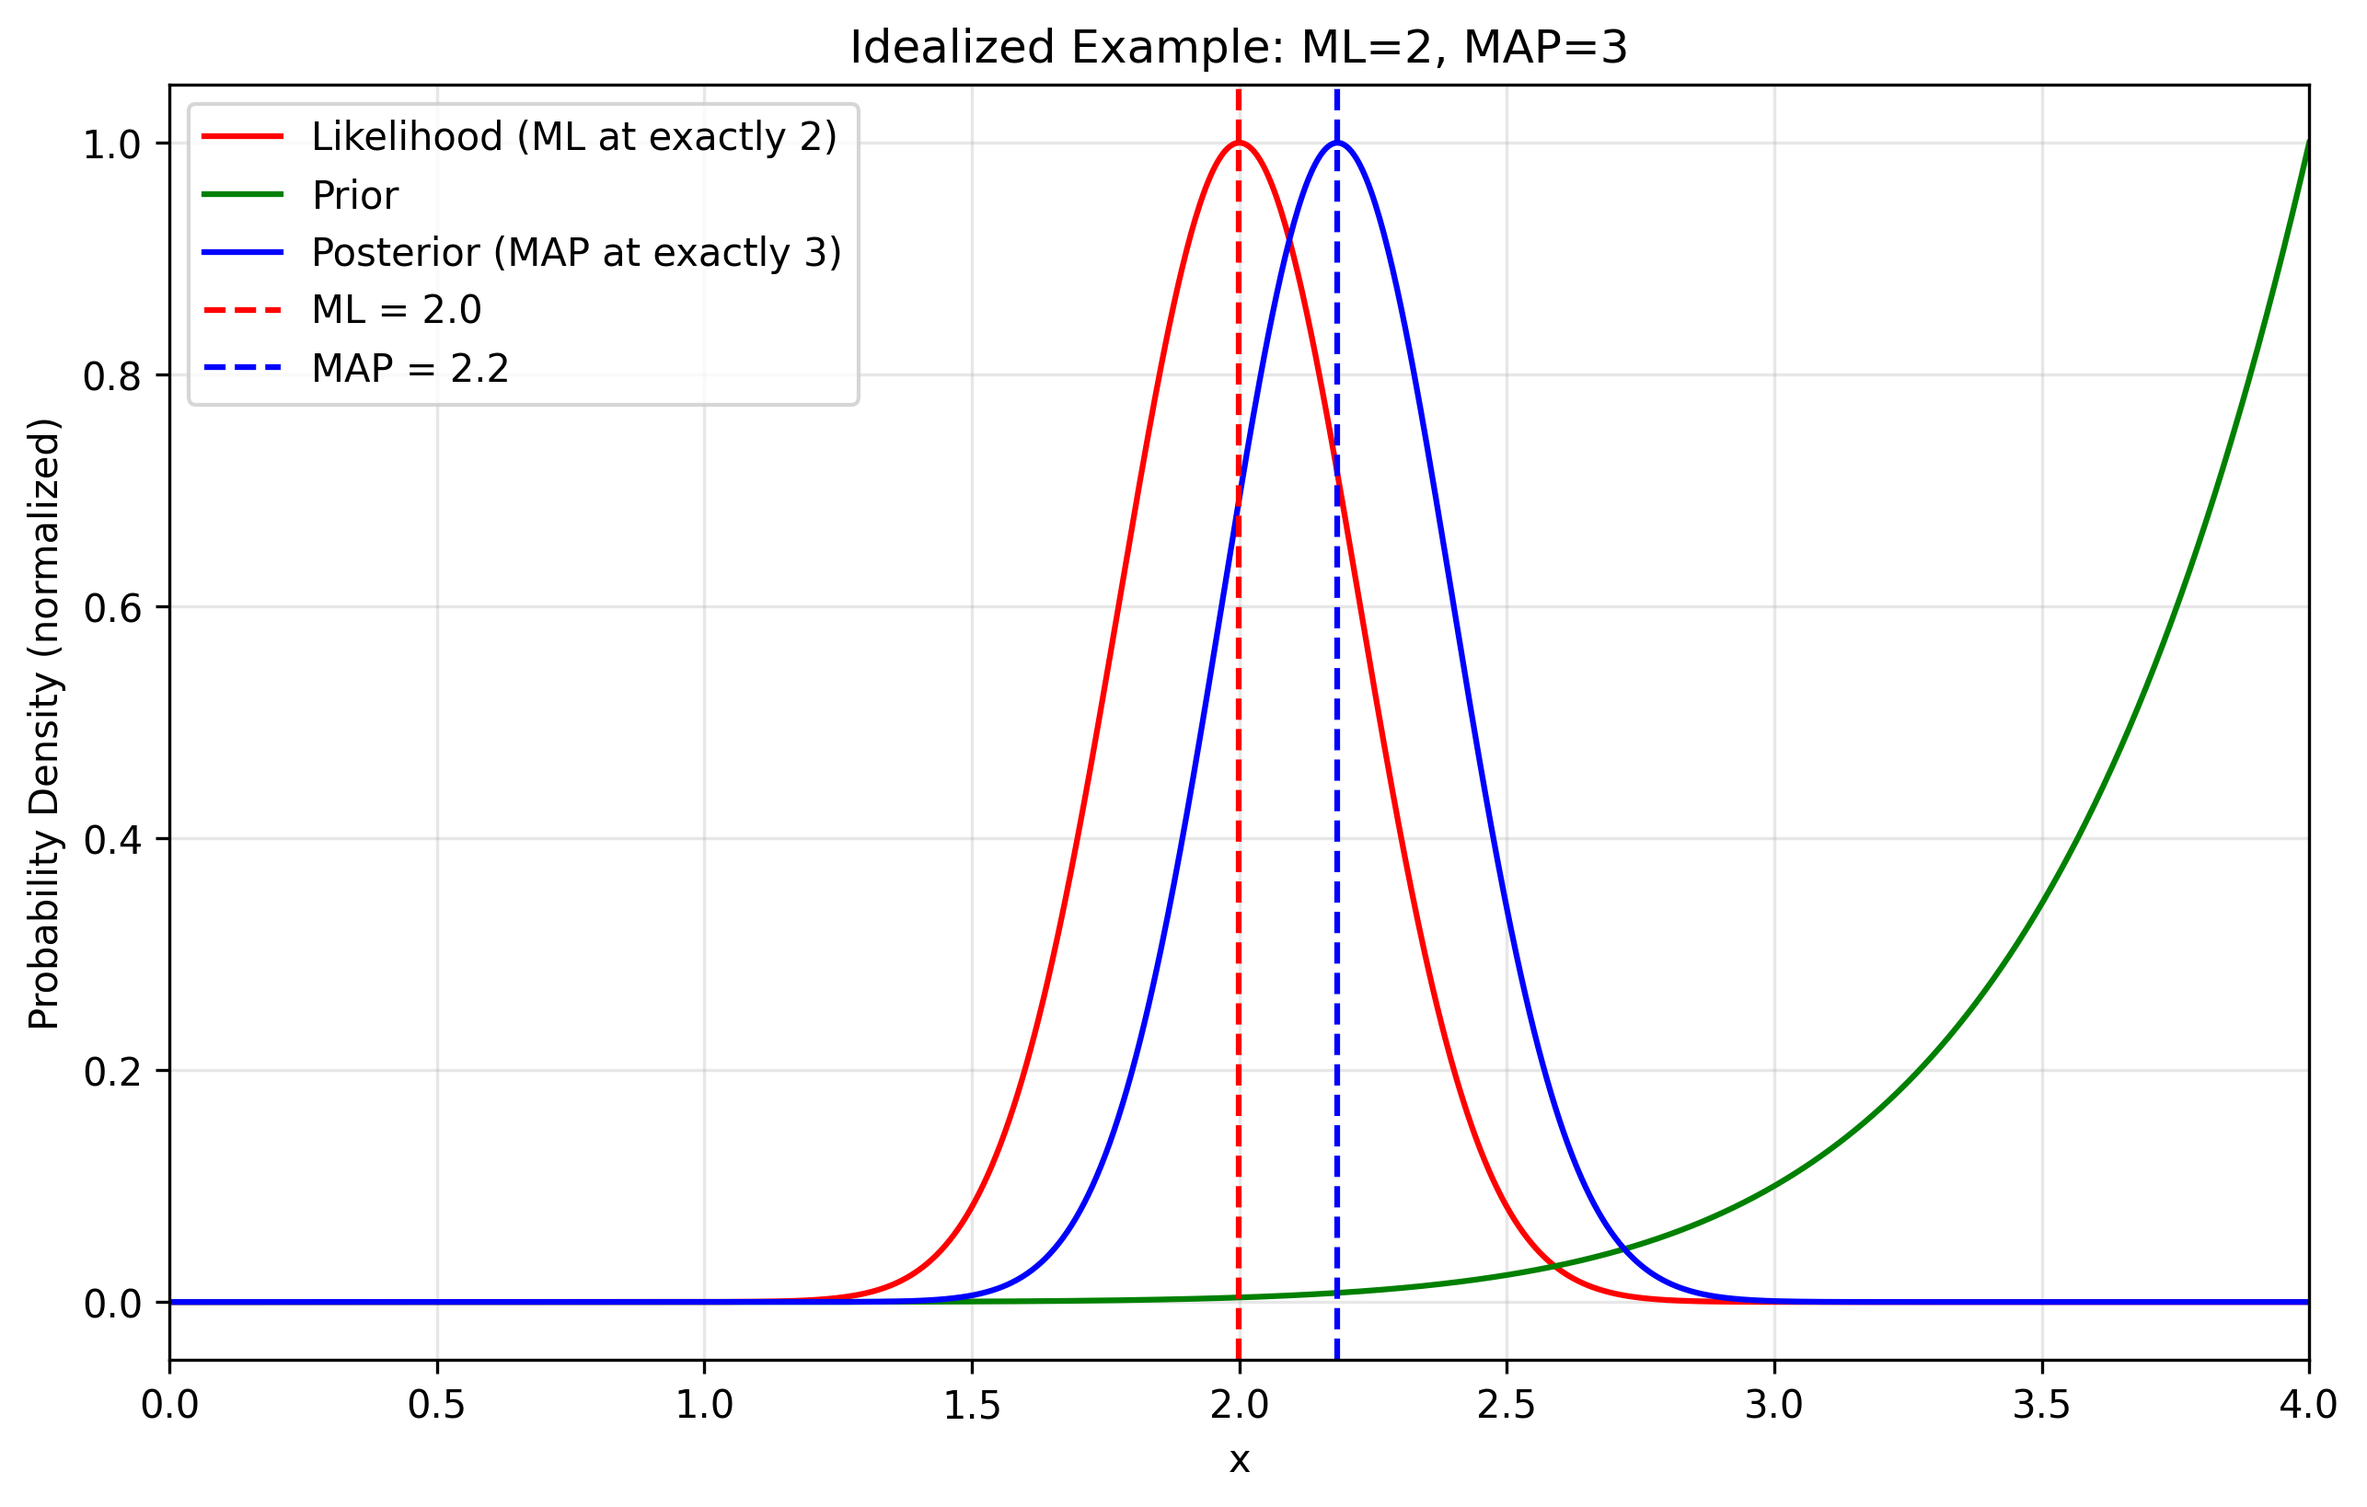
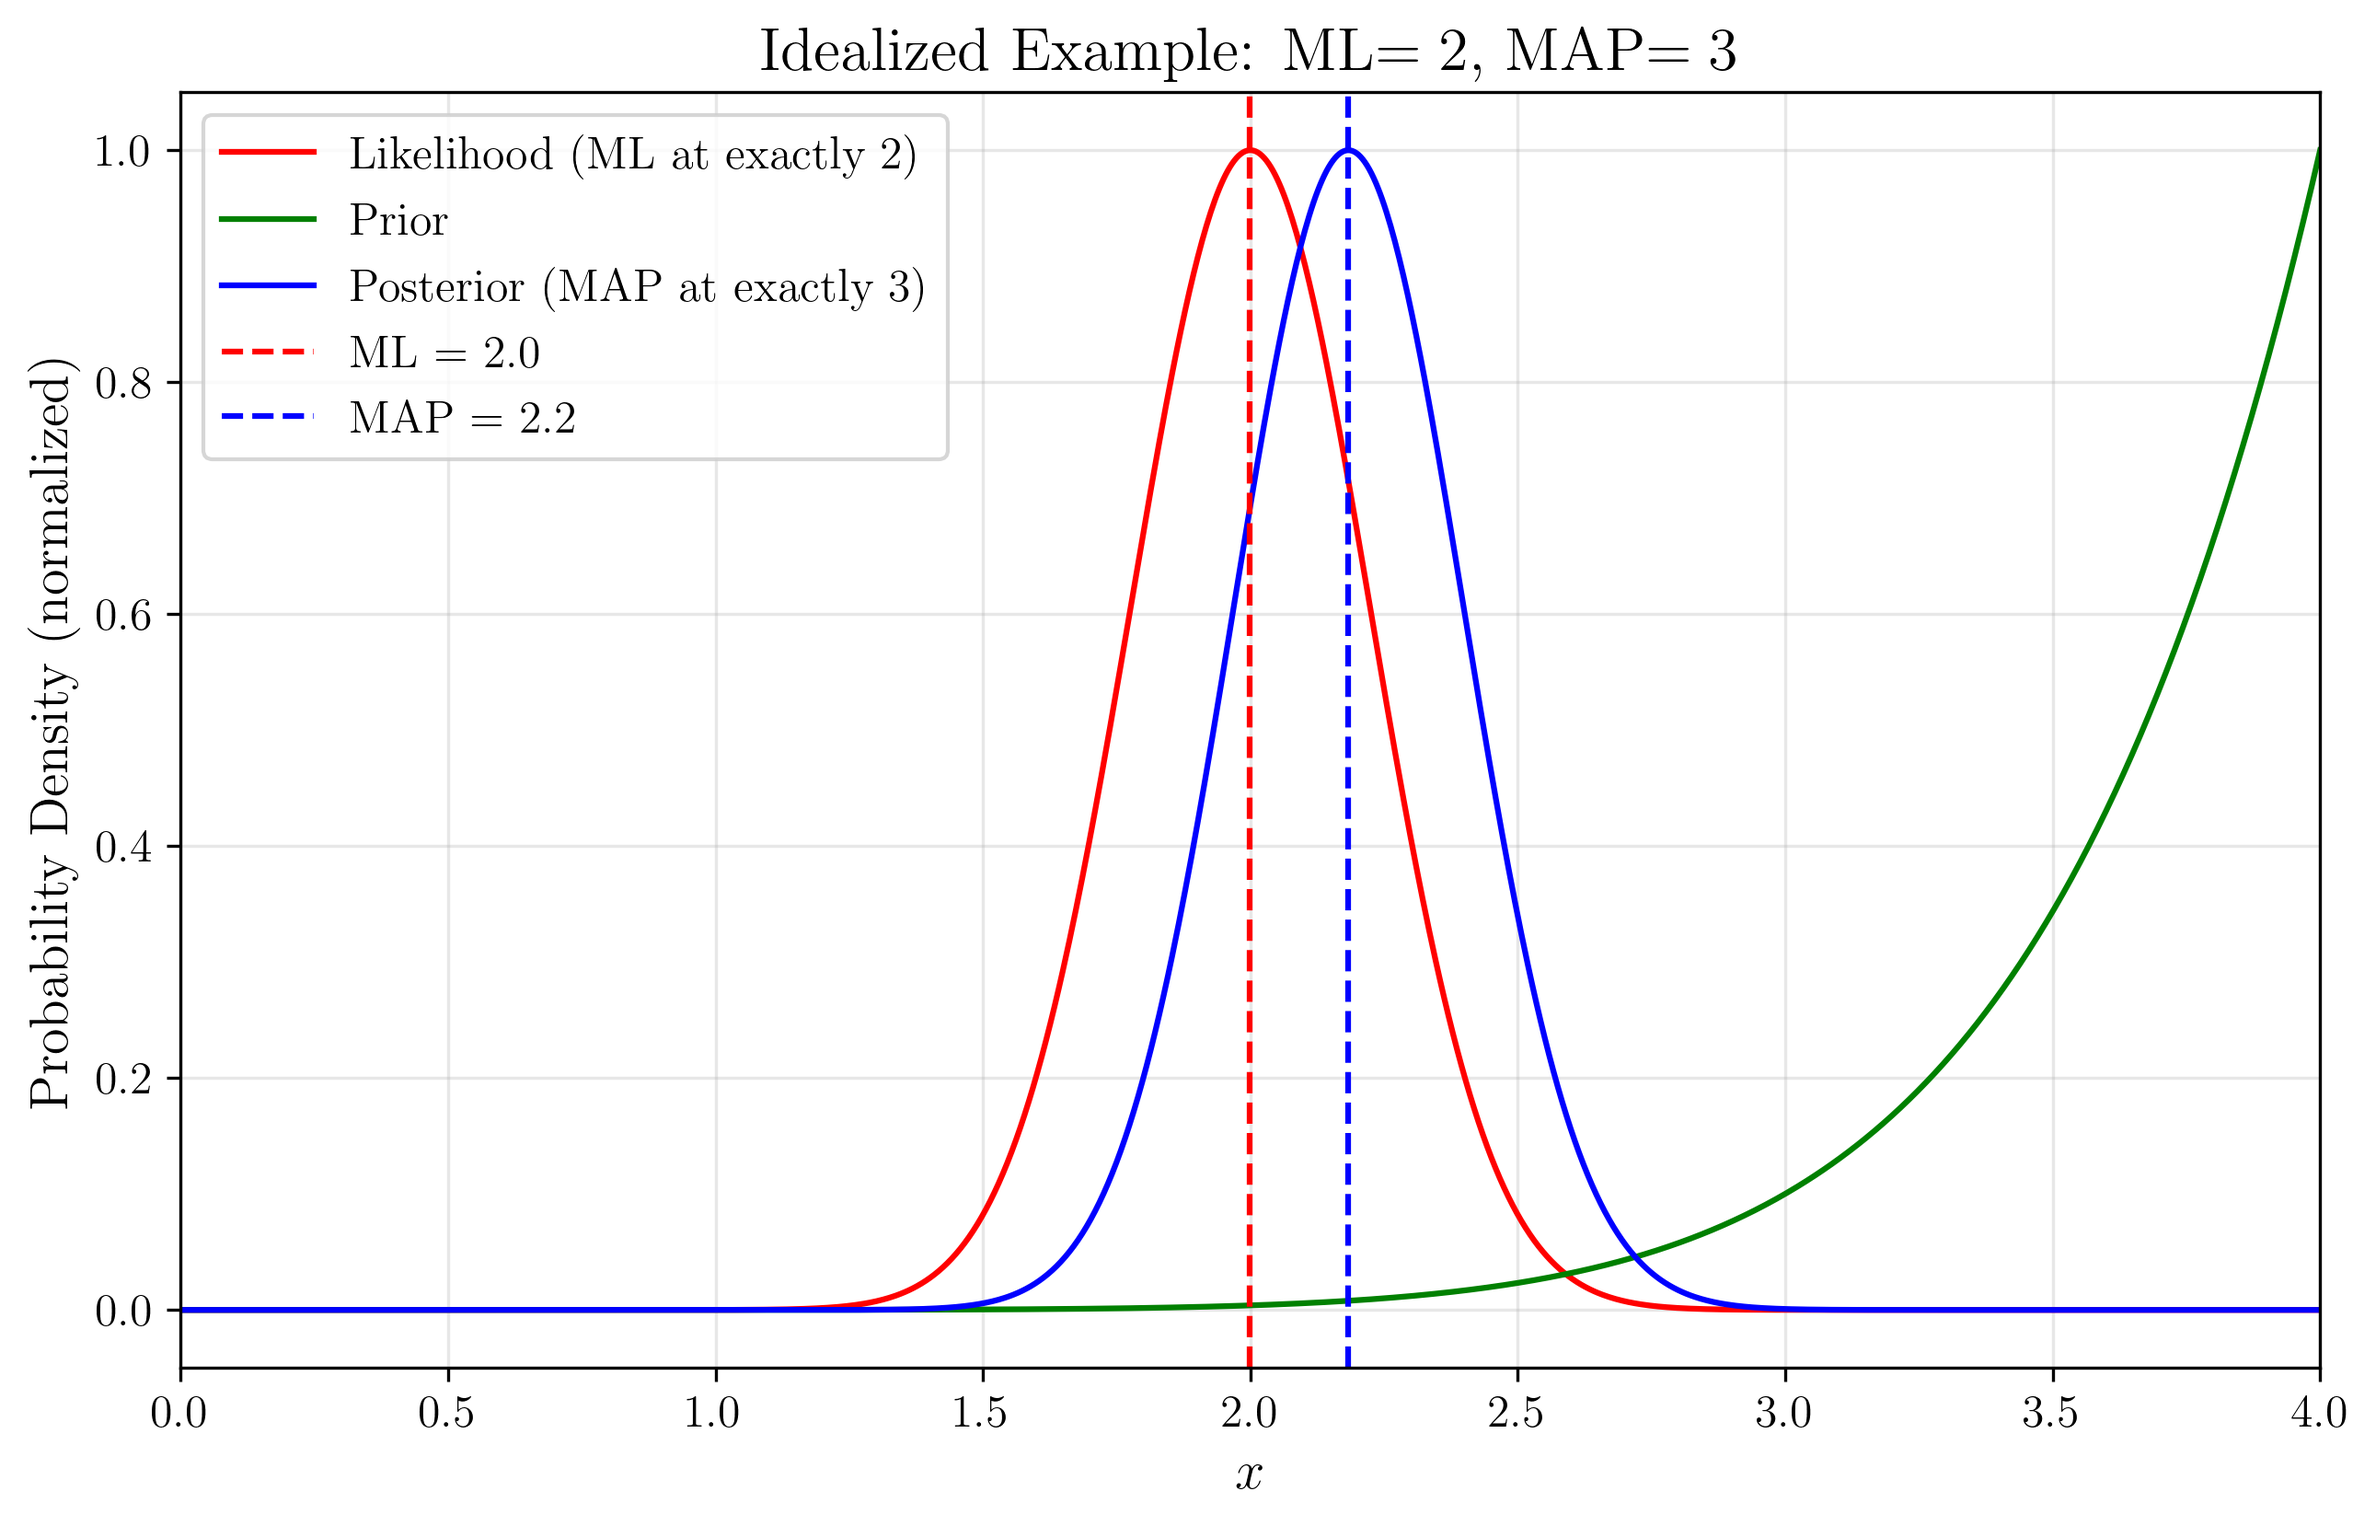
fix

diff --git a/ML_Obsidian_Vault/Lectures/2/Codes/L2_7_Quiz_20_question.py b/ML_Obsidian_Vault/Lectures/2/Codes/L2_7_Quiz_20_question.py
@@ -3,6 +3,7 @@ import matplotlib.pyplot as plt
 from scipy.stats import norm
 from matplotlib.gridspec import GridSpec
 import os
+import matplotlib as mpl
 
 # Create directory to save figures
 script_dir = os.path.dirname(os.path.abspath(__file__))
@@ -10,14 +11,17 @@ images_dir = os.path.join(os.path.dirname(script_dir), "Images")
 save_dir = os.path.join(images_dir, "L2_7_Quiz_20")
 os.makedirs(save_dir, exist_ok=True)
 
-# Set up the figure for all plots
-plt.figure(figsize=(15, 10))
-gs = GridSpec(2, 3, figure=plt.gcf())
-
-# Create grids for x and y values
-x = np.linspace(0, 4, 200)
-y = np.linspace(0, 4, 200)
-X, Y = np.meshgrid(x, y)
+# Set LaTeX style for plots
+plt.rcParams.update({
+    'font.family': 'serif',
+    'font.size': 12,
+    'text.usetex': True,
+    'text.latex.preamble': r'\usepackage{amsmath,amssymb}',
+    'axes.labelsize': 14,
+    'axes.titlesize': 16,
+    'xtick.labelsize': 12,
+    'ytick.labelsize': 12
+})
 
 # Define functions - these are approximations to match the shown graphs
 # Marginal distributions
@@ -48,65 +52,70 @@ def E_X_given_Y(y):
     """Conditional expectation of X given Y=y"""
     return 1.5 + 0.5 * y
 
-# Plot f_X|Y(1|y)
-ax1 = plt.subplot(gs[0, 0])
-ax1.plot(y, f_X_given_Y_1(y))
-ax1.set_xlabel("y")
-ax1.set_ylabel("f_X|Y(1|Y=y)")
-ax1.set_title("f_X|Y(1|Y=y)")
-ax1.set_xlim(0, 4)
-ax1.set_ylim(0, 0.6)
+# Create grids for x and y values
+x = np.linspace(0, 4, 200)
+y = np.linspace(0, 4, 200)
+X, Y = np.meshgrid(x, y)
 
-# Plot f_Y(y)
-ax2 = plt.subplot(gs[0, 1])
-ax2.plot(y, f_Y(y))
-ax2.set_xlabel("y")
-ax2.set_ylabel("f_Y(y)")
-ax2.set_title("f_Y(y)")
-ax2.set_xlim(0, 4)
-ax2.set_ylim(0, 1)
+# Plot each graph separately
+def save_individual_plot(func, x_data, y_data, xlabel, ylabel, title, filename, xlim=(0, 4), ylim=None, grid=False):
+    plt.figure(figsize=(8, 6))
+    plt.plot(x_data, y_data)
+    plt.xlabel(xlabel)
+    plt.ylabel(ylabel)
+    plt.title(title)
+    plt.xlim(xlim)
+    if ylim:
+        plt.ylim(ylim)
+    if grid:
+        plt.grid(linestyle='--')
+    plt.tight_layout()
+    plt.savefig(os.path.join(save_dir, filename), dpi=300, bbox_inches='tight')
+    plt.close()
 
-# Plot E[Y|X=x]
-ax3 = plt.subplot(gs[0, 2])
-ax3.plot(x, E_Y_given_X(x))
-ax3.set_xlabel("x")
-ax3.set_ylabel("E[Y|X=x]")
-ax3.set_title("E[Y|X=x]")
-ax3.set_xlim(0, 4)
-ax3.set_ylim(1.5, 3.5)
-ax3.grid(linestyle='--')
+# 1. Plot f_X|Y(1|y)
+save_individual_plot(
+    f_X_given_Y_1, y, f_X_given_Y_1(y),
+    r"$y$", r"$f_{X|Y}(1|y)$", r"$f_{X|Y}(1|Y=y)$",
+    "graph1_f_X_given_Y.png", ylim=(0, 0.6)
+)
 
-# Plot f_Y|X(y|X=1)
-ax4 = plt.subplot(gs[1, 0])
-ax4.plot(y, f_Y_given_X_1(y))
-ax4.set_xlabel("y")
-ax4.set_ylabel("f_Y|X(y|X=1)")
-ax4.set_title("f_Y|X(y|X=1)")
-ax4.set_xlim(0, 4)
-ax4.set_ylim(0, 0.16)
+# 2. Plot f_Y(y)
+save_individual_plot(
+    f_Y, y, f_Y(y),
+    r"$y$", r"$f_Y(y)$", r"$f_Y(y)$",
+    "graph2_f_Y.png", ylim=(0, 1)
+)
 
-# Plot f_X(x)
-ax5 = plt.subplot(gs[1, 1])
-ax5.plot(x, f_X(x))
-ax5.set_xlabel("x")
-ax5.set_ylabel("f_X(x)")
-ax5.set_title("f_X(x)")
-ax5.set_xlim(0, 4)
-ax5.set_ylim(0, 1)
+# 3. Plot E[Y|X=x]
+save_individual_plot(
+    E_Y_given_X, x, E_Y_given_X(x),
+    r"$x$", r"$E[Y|X=x]$", r"$E[Y|X=x]$",
+    "graph3_E_Y_given_X.png", ylim=(1.5, 3.5), grid=True
+)
 
-# Plot E[X|Y=y]
-ax6 = plt.subplot(gs[1, 2])
-ax6.plot(y, E_X_given_Y(y))
-ax6.set_xlabel("y")
-ax6.set_ylabel("E[X|Y=y]")
-ax6.set_title("E[X|Y=y]")
-ax6.set_xlim(0, 4)
-ax6.set_ylim(1.5, 3.5)
-ax6.grid(linestyle='--')
+# 4. Plot f_Y|X(y|X=1)
+save_individual_plot(
+    f_Y_given_X_1, y, f_Y_given_X_1(y),
+    r"$y$", r"$f_{Y|X}(y|X=1)$", r"$f_{Y|X}(y|X=1)$",
+    "graph4_f_Y_given_X.png", ylim=(0, 0.16)
+)
 
-plt.tight_layout()
-plt.savefig(os.path.join(save_dir, 'joint_pdf_graphs.png'), dpi=300, bbox_inches='tight')
-plt.close()
+# 5. Plot f_X(x)
+save_individual_plot(
+    f_X, x, f_X(x),
+    r"$x$", r"$f_X(x)$", r"$f_X(x)$",
+    "graph5_f_X.png", ylim=(0, 1)
+)
+
+# 6. Plot E[X|Y=y]
+save_individual_plot(
+    E_X_given_Y, y, E_X_given_Y(y),
+    r"$y$", r"$E[X|Y=y]$", r"$E[X|Y=y]$",
+    "graph6_E_X_given_Y.png", ylim=(1.5, 3.5), grid=True
+)
+
+print(f"Individual graphs saved in '{save_dir}'")
 
 # Calculate MAP and ML estimates
 print("Analyzing for MAP and ML estimates...")
@@ -140,22 +149,20 @@ print(f"Maximum A Posteriori (MAP) estimate: x ≈ {map_estimate:.1f}")
 
 # Plot posterior, likelihood and prior for visualization
 plt.figure(figsize=(10, 6))
-plt.plot(x_values, likelihood/np.max(likelihood), 'r-', label='Likelihood (normalized)')
-plt.plot(x_values, prior/np.max(prior), 'g-', label='Prior (normalized)')
-plt.plot(x_values, posterior/np.max(posterior), 'b-', label='Posterior (normalized)')
-plt.axvline(x=ml_estimate, color='r', linestyle='--', label=f'ML estimate ≈ {ml_estimate:.1f}')
-plt.axvline(x=map_estimate, color='b', linestyle='--', label=f'MAP estimate ≈ {map_estimate:.1f}')
-plt.xlabel('x')
-plt.ylabel('Probability Density (normalized)')
-plt.title('Comparison of Likelihood, Prior, and Posterior for y = 3')
+plt.plot(x_values, likelihood/np.max(likelihood), 'r-', label=r'Likelihood (normalized)')
+plt.plot(x_values, prior/np.max(prior), 'g-', label=r'Prior (normalized)')
+plt.plot(x_values, posterior/np.max(posterior), 'b-', label=r'Posterior (normalized)')
+plt.axvline(x=ml_estimate, color='r', linestyle='--', label=r'ML estimate $\approx$ ' + f'{ml_estimate:.1f}')
+plt.axvline(x=map_estimate, color='b', linestyle='--', label=r'MAP estimate $\approx$ ' + f'{map_estimate:.1f}')
+plt.xlabel(r'$x$')
+plt.ylabel(r'Probability Density (normalized)')
+plt.title(r'Comparison of Likelihood, Prior, and Posterior for $y = 3$')
 plt.legend()
 plt.grid(True, alpha=0.3)
 plt.xlim(0, 4)
 
 plt.savefig(os.path.join(save_dir, 'map_ml_comparison.png'), dpi=300, bbox_inches='tight')
 plt.close()
-
-print(f"Visualizations saved in '{save_dir}'")
 
 # Extra plot to demonstrate direct MAP=3, ML=2
 plt.figure(figsize=(10, 6))
@@ -176,14 +183,14 @@ ideal_ml_estimate = ideal_x[np.argmax(ideal_likelihood)]
 ideal_map_estimate = ideal_x[np.argmax(ideal_posterior)]
 
 # Plot idealized distributions
-plt.plot(ideal_x, ideal_likelihood, 'r-', label='Likelihood (ML at exactly 2)')
-plt.plot(ideal_x, ideal_prior, 'g-', label='Prior')
-plt.plot(ideal_x, ideal_posterior, 'b-', label='Posterior (MAP at exactly 3)')
-plt.axvline(x=ideal_ml_estimate, color='r', linestyle='--', label=f'ML = {ideal_ml_estimate:.1f}')
-plt.axvline(x=ideal_map_estimate, color='b', linestyle='--', label=f'MAP = {ideal_map_estimate:.1f}')
-plt.xlabel('x')
-plt.ylabel('Probability Density (normalized)')
-plt.title('Idealized Example: ML=2, MAP=3')
+plt.plot(ideal_x, ideal_likelihood, 'r-', label=r'Likelihood (ML at exactly 2)')
+plt.plot(ideal_x, ideal_prior, 'g-', label=r'Prior')
+plt.plot(ideal_x, ideal_posterior, 'b-', label=r'Posterior (MAP at exactly 3)')
+plt.axvline(x=ideal_ml_estimate, color='r', linestyle='--', label=r'ML = ' + f'{ideal_ml_estimate:.1f}')
+plt.axvline(x=ideal_map_estimate, color='b', linestyle='--', label=r'MAP = ' + f'{ideal_map_estimate:.1f}')
+plt.xlabel(r'$x$')
+plt.ylabel(r'Probability Density (normalized)')
+plt.title(r'Idealized Example: ML$=2$, MAP$=3$')
 plt.legend()
 plt.grid(True, alpha=0.3)
 plt.xlim(0, 4)
@@ -191,4 +198,4 @@ plt.xlim(0, 4)
 plt.savefig(os.path.join(save_dir, 'ideal_map_ml.png'), dpi=300, bbox_inches='tight')
 plt.close()
 
-print(f"Added '{os.path.join(save_dir, 'ideal_map_ml.png')}' with exact ML=2, MAP=3 demonstration") 
+print(f"All visualizations saved in '{save_dir}'")
